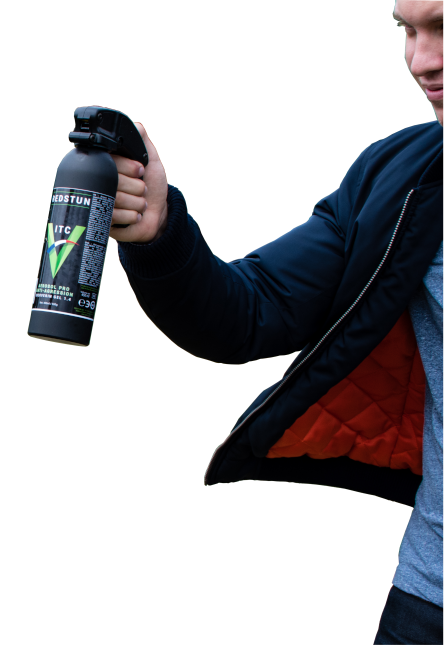
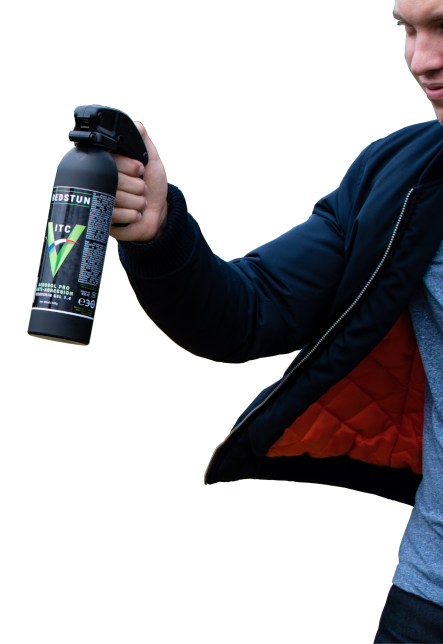
(c) MainPresentation : fixed paddings on mobile devices & optimize pngs

diff --git a/src/components/MainPresentation.vue b/src/components/MainPresentation.vue
@@ -81,6 +81,9 @@ p {
 @media (max-width: 768px) {
   .illustration {
     display: block;
+    padding-right: 0;
+    padding-left: 0;
+    padding-top: 2rem;
   }
   .watch-video {
     float: inherit;
